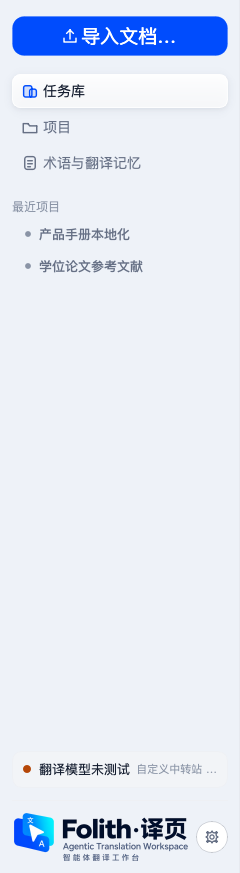
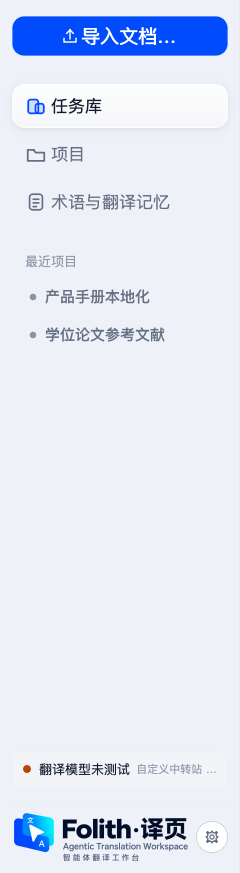
feat(qt): a sidebar that uses its width
Still read small in the 240 px sidebar.  Nav items go to 17 px (new FONT_SIZES
nav token) on 44 px rows with 22 px icons and 12 px side padding; recent
projects to 15 px on 36 px rows; the section label to 13 px semibold, aligned
with the nav text; group gaps 24 px, rows 4 px apart.

Changed region(s): [[0.0583, 0.0928, 0.7, 0.4021], [0.1167, 0.3711, 0.1458, 0.4021]]

diff --git a/folith/qt/views.py b/folith/qt/views.py
@@ -670,6 +670,8 @@ class HomeView(QWidget):
         # 「最近项目」：真实的项目分组，点一下 = 只看这个项目的任务（与页头的项目筛选同源）。
         self.project_nav_label = QLabel(i18n.tr('最近项目'))
         self.project_nav_label.setObjectName("navSection")
+        # 与导航文字左缘对齐（按钮左内边距 12 + 1px 透明边）。
+        self.project_nav_label.setContentsMargins(theme_module.SPACE["md"] + 1, 0, 0, 0)
         self.project_nav_label.setVisible(False)
         self.project_nav_box = QVBoxLayout()
         self.project_nav_box.setContentsMargins(0, 0, 0, 0)
@@ -733,16 +735,16 @@ class HomeView(QWidget):
         side = QVBoxLayout(sidebar)
         side.setContentsMargins(theme_module.SPACE["md"], theme_module.SPACE["lg"],
                                 theme_module.SPACE["md"], theme_module.SPACE["md"])
-        side.setSpacing(theme_module.SPACE["xxs"])
+        side.setSpacing(theme_module.SPACE["xs"])
         side.addWidget(self.import_button)
-        # 分组之间 16px、组内 2px：只在"组"上写间距，行与行之间保持同一条节奏。
-        side.addSpacing(theme_module.SPACE["lg"])
+        # 分组之间 24px、组内 4px：只在"组"上写间距，行与行之间保持同一条节奏。
+        side.addSpacing(theme_module.SPACE["xl"])
         side.addWidget(self.tasks_button)
         side.addWidget(self.manage_projects_button)
         side.addWidget(self.library_button)
-        side.addSpacing(theme_module.SPACE["lg"])
+        side.addSpacing(theme_module.SPACE["xl"])
         side.addWidget(self.project_nav_label)
-        side.addSpacing(theme_module.SPACE["xxs"])
+        side.addSpacing(theme_module.SPACE["xs"])
         side.addLayout(self.project_nav_box)
         side.addStretch(1)
         side.addWidget(sidebar_footer)
@@ -797,7 +799,6 @@ class HomeView(QWidget):
         self.project_tabs = components.ProjectTabs(i18n.tr('全部项目'))
         self.project_tabs.setToolTip(i18n.tr('按项目筛选任务'))
         self.project_tabs.changed.connect(self._pick_project_tab)
-        self.project_tabs.setVisible(False)
         self._projects: list[dict] = []
 
         self.search_edit = components.SearchBar(
@@ -981,6 +982,15 @@ class HomeView(QWidget):
             self.list_card.add_header_widget(control)
         actions.setContentsMargins(theme_module.SPACE["md"], theme_module.SPACE["sm"],
                                    theme_module.SPACE["md"], theme_module.SPACE["sm"])
+        # 项目标签：紧贴在「任务列表」头部条下面，是列表自己的一层筛选。
+        self.project_tabs_row = QFrame()
+        self.project_tabs_row.setObjectName("projectTabsRow")
+        tabs_row = QHBoxLayout(self.project_tabs_row)
+        tabs_row.setContentsMargins(theme_module.SPACE["md"], theme_module.SPACE["md"],
+                                    theme_module.SPACE["md"], theme_module.SPACE["xxs"])
+        tabs_row.addWidget(self.project_tabs)
+        self.project_tabs_row.setVisible(False)
+        self.list_card.body_layout.addWidget(self.project_tabs_row)
         self.list_card.body_layout.addWidget(self.stack, 1)
         self.list_card.body_layout.addWidget(self.actions_frame)
 
@@ -993,11 +1003,7 @@ class HomeView(QWidget):
         layout.addLayout(page_header)
         layout.addWidget(self.setup_banner)
         layout.addWidget(self.continue_card)
-        list_column = QVBoxLayout()
-        list_column.setSpacing(theme_module.SPACE["sm"])
-        list_column.addWidget(self.project_tabs)
-        list_column.addWidget(self.list_card, 1)
-        layout.addLayout(list_column, 1)
+        layout.addWidget(self.list_card, 1)
 
         shell = QHBoxLayout(self)
         shell.setContentsMargins(0, 0, 0, 0)
@@ -1172,9 +1178,10 @@ class HomeView(QWidget):
         self.project_tabs.tabs[components.ALL_PROJECTS].set_data(
             i18n.tr('全部项目'), len(getattr(self, "_rows", [])))
         self.project_tabs.set_value(self.project_filter.currentData() or "")
-        self.project_tabs.setVisible(any(not project.get("is_system")
-                                         for project in self._projects
-                                         if project.get("project_id")))
+        self.project_tabs.setVisible(True)
+        self.project_tabs_row.setVisible(any(not project.get("is_system")
+                                             for project in self._projects
+                                             if project.get("project_id")))
 
     def _pick_project_tab(self, project_id: str) -> None:
         index = self.project_filter.findData(project_id or "")
@@ -1198,8 +1205,8 @@ class HomeView(QWidget):
             button = QPushButton(name)
             button.setObjectName("navProject")
             button.setCheckable(True)
-            button.setIcon(icons.icon("dot", 14, "text-muted", color_on="accent"))
-            button.setIconSize(QSize(14, 14))
+            button.setIcon(icons.icon("dot", 16, "text-muted", color_on="accent"))
+            button.setIconSize(QSize(16, 16))
             button.setCursor(Qt.CursorShape.PointingHandCursor)
             button.setToolTip(name)
             style_module.fit_button(button, max_width=168)

diff --git a/folith/qt/style.py b/folith/qt/style.py
@@ -449,9 +449,9 @@ QWidget#sidebar {{
 QWidget#sidebar QLabel {{ background: transparent; }}
 QPushButton#navItem {{
     background: transparent; border: 1px solid transparent;
-    border-radius: {r['sm']}px; padding: {sp['xs']}px {sp['sm']}px;
-    min-height: {box('lg', pad_y=sp['xs'], border=1)}px; text-align: left; color: {t['text-secondary']};
-    font-size: {f['reading']}px; font-weight: 500;
+    border-radius: {r['md']}px; padding: {sp['xs'] + 2}px {sp['md']}px;
+    min-height: {44 - 2 * (sp['xs'] + 2) - 2}px; text-align: left; color: {t['text-secondary']};
+    font-size: {f['nav']}px; font-weight: 500;
 }}
 QPushButton#navItem:hover {{ background: {t['bg-hover']}; color: {t['text-primary']}; }}
 /* 选中 = 一片浅色玻璃（2026-10-16 验收：浅蓝底不醒目，强调色描边又太硬）：半透明亮面、
@@ -462,12 +462,12 @@ QPushButton#navItem:checked {{
     color: {t['text-primary']}; font-weight: 600;
 }}
 /* 侧栏小节标题（"最近项目"）与项目条目 */
-QLabel#navSection {{ font-size: {f['footnote']}px; font-weight: 500; color: {t['text-muted']}; }}
+QLabel#navSection {{ font-size: {f['body']}px; font-weight: 600; color: {t['text-muted']}; }}
 QPushButton#navProject {{
     background: transparent; border: 1px solid transparent;
-    border-radius: {r['sm']}px; padding: {sp['xs']}px {sp['sm']}px;
-    min-height: {box('md', pad_y=sp['xs'], border=1)}px; text-align: left; color: {t['text-secondary']};
-    font-size: {f['body']}px; font-weight: 500;
+    border-radius: {r['sm']}px; padding: {sp['xs']}px {sp['md']}px;
+    min-height: {36 - 2 * sp['xs'] - 2}px; text-align: left; color: {t['text-secondary']};
+    font-size: {f['card']}px; font-weight: 500;
 }}
 QPushButton#navProject:hover {{ background: {t['bg-hover']}; color: {t['text-primary']}; }}
 QPushButton#navProject:checked {{

diff --git a/folith/qt/components.py b/folith/qt/components.py
@@ -626,7 +626,7 @@ class ProjectTabs(QWidget):
 # Navigation
 # --------------------------------------------------------------------------
 def nav_item(label: str, icon_name: str, *, checkable: bool = False,
-             icon_size: int = 18) -> QPushButton:
+             icon_size: int = 22) -> QPushButton:
     """侧栏导航项：静止 = 次要色线性图标；选中 = 强调色双色图标 + 左侧强调条（QSS）。"""
     button = QPushButton(label)
     button.setObjectName("navItem")

diff --git a/folith/qt/theme.py b/folith/qt/theme.py
@@ -50,6 +50,7 @@ FONT_SIZES = {
     "body": 13,       # 正文、按钮、输入框（macOS 正文字号）
     "reading": 14,    # 阅读区：段落网格、原文浮层、译文编辑框
     "card": 15,       # 卡片 / 条目标题（600）
+    "nav": 17,        # 侧栏导航（窗口级导航，侧栏 240px 宽，空间足够用大字）
     "section": 20,    # 区块标题（600）
     "title": 26,      # 页面 / 对话框标题（700）
     "display": 30,    # 展示标题

diff --git a/CHANGELOG.md b/CHANGELOG.md
@@ -27,7 +27,7 @@
 - 术语在正文里看得见：本段原文与译文里的术语加下划线，悬停检查器里的术语时这一对高亮，点击在全文定位（网格里标出、滚动条上有位置、逐处跳转，没用首选译名的地方标琥珀色）；插入首选译名改用右侧 ↵ 或 ⌥点击。「前后文」只在筛选或搜索时出现。在原文里选中一句后直接打字，就会把这句引用进提问框。
 - 任务库里的文档画得更像实物：PDF、Word、TXT、Markdown 是一张纸，文档越长下面垫的纸越厚，TXT / Markdown 右上角折一个角；EPUB 和第一页就是封面的 PDF 是一本书（书脊压痕、书页切口）。悬停时文档抬起、投影变大变柔，按下时略微下沉。打开任务时，文档从卡片上飞起，落到译前准备页的同一位置；返回任务库时飞回原来的卡片。开启「减少动态效果」时直接切换。
 - 任务库的卡片去掉了外框：文档本身就是卡片——书画封面、纸质文档画第一页，底部一层从下往上渐隐到封面中线的磨砂玻璃，文件名、格式与段数、更新时间、状态与进度浮在玻璃上；玻璃下的暗层按封面底部的亮度自动调浓淡，白纸和深色封面都读得清。层次只靠文档自己的投影，悬停时抬起、按下时下沉，问题数仍在玻璃右下角，可以直接点。
-- 侧栏字号加大（导航 14 px、最近项目 13 px、小节标题 12 px），选中项是一片带柔和投影的浅色玻璃（半透明亮面、同色亮边，没有彩色描边），一眼能看出在哪一页。
+- 侧栏用足空间：导航 17 px、行高 44 px、图标 22 px，最近项目 15 px，小节标题 13 px，分组间距 24 px，选中项是一片带柔和投影的浅色玻璃（半透明亮面、同色亮边，没有彩色描边），一眼能看出在哪一页。
 
 ### 0.5.1：正确性与卡顿修复（2026-10-14，`fix/0.5.1-p0`）
 
